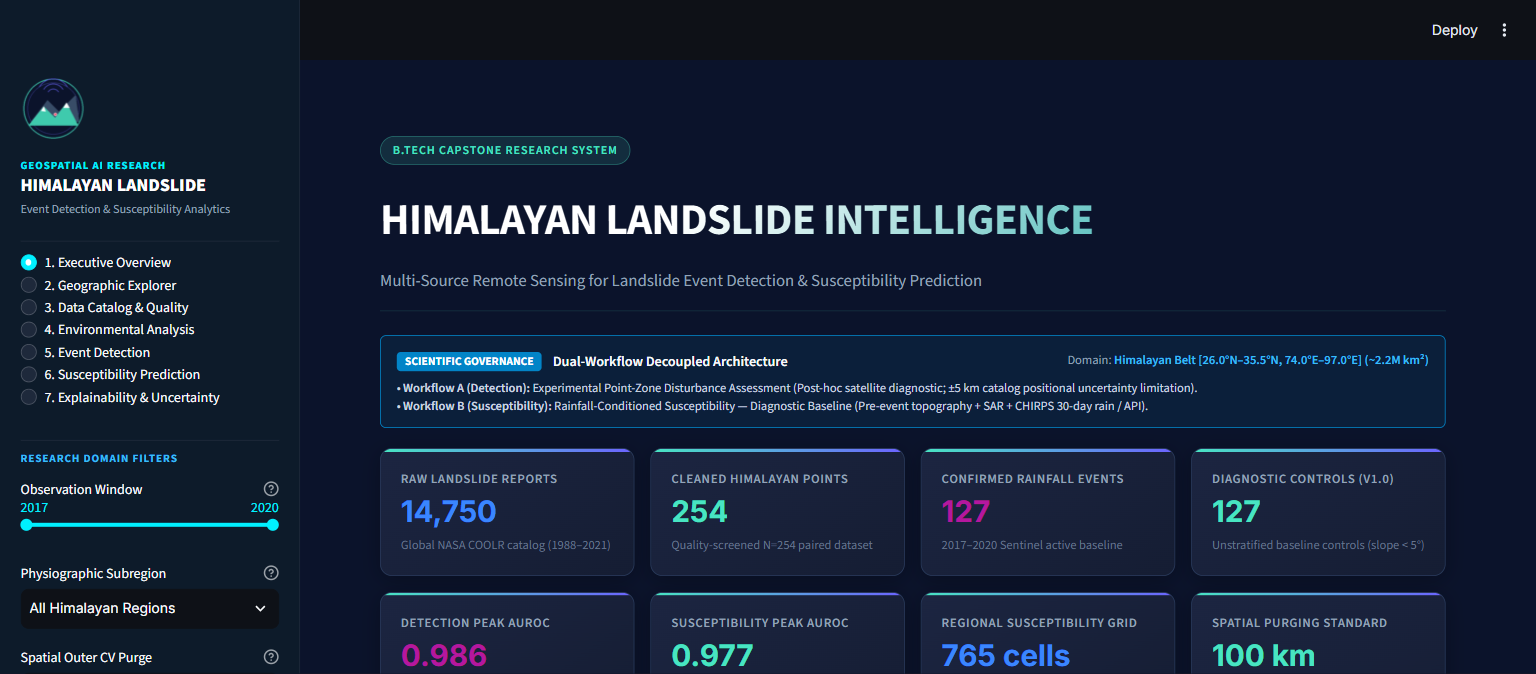
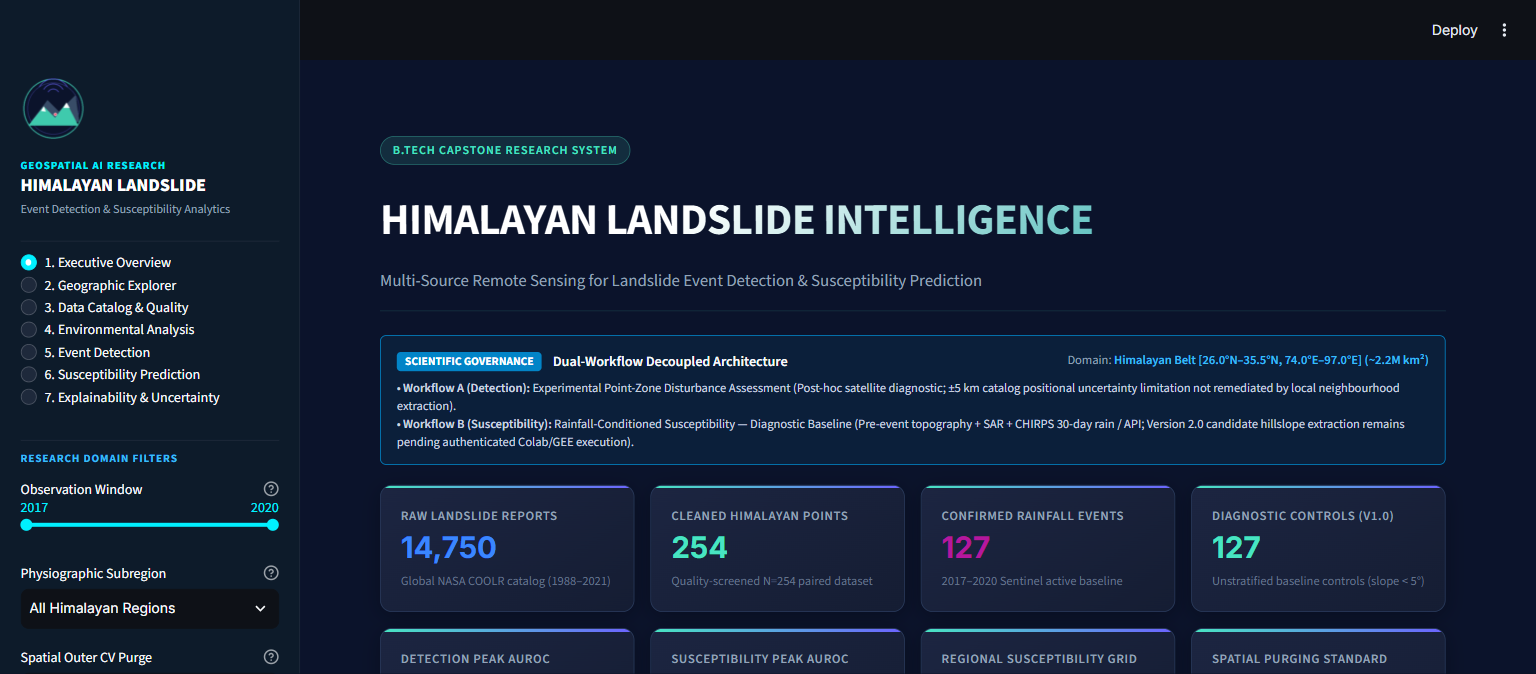
Fix Executive Overview metric chart schema, correct scientific wording, and verify dashboard

Changed region(s): [[0.25, 0.592, 0.9375, 0.997], [0.7812, 0.5608, 0.9062, 0.592]]

diff --git a/dashboard/components/charts.py b/dashboard/components/charts.py
@@ -149,33 +149,111 @@ def render_trigger_breakdown_chart(df: pd.DataFrame) -> go.Figure:
 
 
 def render_model_comparison_bar_chart(metrics_df: pd.DataFrame) -> go.Figure:
-    """Renders grouped bar chart comparing RF vs XGBoost across AUROC, PR-AUC, and F1."""
-    if metrics_df.empty:
+    """Renders grouped bar chart comparing RF vs XGBoost across AUROC, PR-AUC, and F1.
+    
+    Robustly handles:
+    1. Standard tidy metrics schema (with 'model', 'auroc', 'prauc', 'f1_score_at_0.5' / 'f1')
+       from detection_metrics.csv or susceptibility_metrics.csv.
+    2. Legacy wide metrics schema (with 'rf_auroc', 'xgb_auroc', etc.).
+    """
+    if metrics_df is None or metrics_df.empty:
         fig = go.Figure()
         return apply_custom_theme(fig, title="Model Metrics Unavailable")
 
     metrics_names = ["AUROC", "PR-AUC", "F1 Score"]
-    
-    # We display the REDUCED feature set as primary, and full as secondary
-    red_row = metrics_df[metrics_df["feature_set"].str.contains("REDUCED", case=False, na=False)]
-    if red_row.empty:
-        red_row = metrics_df.iloc[-1:]
+    rf_scores = [0.0, 0.0, 0.0]
+    xgb_scores = [0.0, 0.0, 0.0]
+    chart_title = "Spatial Out-of-Fold Model Benchmark (100km Purged)"
+    rf_label = "Random Forest"
+    xgb_label = "XGBoost"
 
-    rf_scores = [
-        float(red_row["rf_auroc"].values[0]),
-        float(red_row["rf_prauc"].values[0]),
-        float(red_row["rf_f1"].values[0]),
-    ]
-    xgb_scores = [
-        float(red_row["xgb_auroc"].values[0]),
-        float(red_row["xgb_prauc"].values[0]),
-        float(red_row["xgb_f1"].values[0]),
-    ]
+    cols = set(metrics_df.columns)
+
+    # 1. Legacy wide schema (rf_auroc, xgb_auroc)
+    if "rf_auroc" in cols and "xgb_auroc" in cols:
+        target_df = metrics_df
+        if "feature_set" in cols:
+            red = metrics_df[metrics_df["feature_set"].str.contains("REDUCED", case=False, na=False)]
+            if not red.empty:
+                target_df = red
+        target_row = target_df.iloc[-1]
+
+        rf_auc = target_row.get("rf_auroc", 0.0)
+        rf_pr = target_row.get("rf_prauc", target_row.get("rf_pr_auc", 0.0))
+        rf_f1 = target_row.get("rf_f1", target_row.get("rf_f1_score_at_0.5", target_row.get("rf_f1_score", 0.0)))
+
+        xgb_auc = target_row.get("xgb_auroc", 0.0)
+        xgb_pr = target_row.get("xgb_prauc", target_row.get("xgb_pr_auc", 0.0))
+        xgb_f1 = target_row.get("xgb_f1", target_row.get("xgb_f1_score_at_0.5", target_row.get("xgb_f1_score", 0.0)))
+
+        rf_scores = [float(rf_auc or 0.0), float(rf_pr or 0.0), float(rf_f1 or 0.0)]
+        xgb_scores = [float(xgb_auc or 0.0), float(xgb_pr or 0.0), float(xgb_f1 or 0.0)]
+        rf_label = "Random Forest"
+        xgb_label = "XGBoost"
+
+    # 2. Standard tidy schema (detection_metrics / susceptibility_metrics)
+    elif "model" in cols:
+        df_work = metrics_df.copy()
+
+        # Prioritize 100km spatial purge standard if present
+        if "purge_distance_km" in df_work.columns:
+            purged = df_work[df_work["purge_distance_km"] == 100.0]
+            if not purged.empty:
+                df_work = purged
+
+        # If configuration exists (susceptibility), default to Core model
+        if "configuration" in df_work.columns:
+            core = df_work[df_work["configuration"].str.contains("Core", case=False, na=False)]
+            if not core.empty:
+                df_work = core
+                chart_title = "Susceptibility Core Model Benchmark (100km Purged)"
+
+        rf_mask = df_work["model"].str.contains(r"Random Forest|RF", case=False, na=False)
+        xgb_mask = df_work["model"].str.contains(r"XGBoost|XGB", case=False, na=False)
+
+        rf_row = df_work[rf_mask]
+        xgb_row = df_work[xgb_mask]
+
+        auc_col = next((c for c in ["auroc", "auc", "roc_auc"] if c in df_work.columns), "auroc")
+        pr_col = next((c for c in ["prauc", "pr_auc", "average_precision"] if c in df_work.columns), auc_col)
+        f1_col = next((c for c in ["f1_score_at_0.5", "f1", "f1_score"] if c in df_work.columns), auc_col)
+
+        if not rf_row.empty:
+            r = rf_row.iloc[0]
+            rf_scores = [
+                float(r.get(auc_col, 0.0) or 0.0),
+                float(r.get(pr_col, 0.0) or 0.0),
+                float(r.get(f1_col, 0.0) or 0.0),
+            ]
+            rf_label = "Random Forest (100km Purged)" if "purge_distance_km" in df_work.columns else "Random Forest"
+
+        if not xgb_row.empty:
+            x = xgb_row.iloc[0]
+            xgb_scores = [
+                float(x.get(auc_col, 0.0) or 0.0),
+                float(x.get(pr_col, 0.0) or 0.0),
+                float(x.get(f1_col, 0.0) or 0.0),
+            ]
+            xgb_label = "XGBoost (100km Purged)" if "purge_distance_km" in df_work.columns else "XGBoost"
+
+    else:
+        # Generic fallback for 2-row comparison
+        auc_col = next((c for c in ["auroc", "auc", "roc_auc"] if c in cols), None)
+        pr_col = next((c for c in ["prauc", "pr_auc", "average_precision"] if c in cols), auc_col)
+        f1_col = next((c for c in ["f1_score_at_0.5", "f1", "f1_score"] if c in cols), auc_col)
+
+        if auc_col and len(metrics_df) >= 2:
+            r0 = metrics_df.iloc[0]
+            r1 = metrics_df.iloc[1]
+            rf_scores = [float(r0.get(auc_col, 0.0) or 0.0), float(r0.get(pr_col, 0.0) or 0.0), float(r0.get(f1_col, 0.0) or 0.0)]
+            xgb_scores = [float(r1.get(auc_col, 0.0) or 0.0), float(r1.get(pr_col, 0.0) or 0.0), float(r1.get(f1_col, 0.0) or 0.0)]
+            rf_label = str(r0.get("model", "Model 1"))
+            xgb_label = str(r1.get("model", "Model 2"))
 
     fig = go.Figure(
         data=[
             go.Bar(
-                name="Random Forest (Reduced)",
+                name=rf_label,
                 x=metrics_names,
                 y=rf_scores,
                 marker_color=THEME_COLORS["secondary"],
@@ -183,7 +261,7 @@ def render_model_comparison_bar_chart(metrics_df: pd.DataFrame) -> go.Figure:
                 textposition="auto",
             ),
             go.Bar(
-                name="XGBoost (Reduced)",
+                name=xgb_label,
                 x=metrics_names,
                 y=xgb_scores,
                 marker_color=THEME_COLORS["primary"],
@@ -195,7 +273,7 @@ def render_model_comparison_bar_chart(metrics_df: pd.DataFrame) -> go.Figure:
     fig.update_layout(barmode="group", yaxis_range=[0.75, 1.02])
     return apply_custom_theme(
         fig,
-        title="Spatial Out-of-Fold Model Performance (Reduced Set)",
+        title=chart_title,
         x_title="Evaluation Metric",
         y_title="Score",
         height=350,
@@ -499,7 +577,7 @@ def render_missingness_chart(missing_summary_df: pd.DataFrame) -> go.Figure:
     if plot_df.empty:
         plot_df = missing_summary_df.head(10).copy()
 
-    plot_df = plot_df.sort_values(by="missing_pct", ascending=True)
+    plot_df = plot_df.drop_duplicates(subset=["column"]).sort_values(by="missing_pct", ascending=True).reset_index(drop=True)
 
     colors = [
         THEME_COLORS["danger"] if pct > 30 else THEME_COLORS["warning"] if pct > 5 else THEME_COLORS["primary"]

diff --git a/dashboard/pages/data_quality.py b/dashboard/pages/data_quality.py
@@ -81,10 +81,13 @@ def render(filters: Dict[str, Any]) -> None:
     )
 
     if not missing_df.empty:
+        # Deduplicate display entries while preserving all distinct source variables
+        missing_df = missing_df.drop_duplicates(subset=["feature"]).reset_index(drop=True)
         c3, c4 = st.columns([1.2, 1])
         with c3:
             # Transform missing_df to format expected by missingness chart
             chart_df = missing_df.rename(columns={"feature": "column", "missingness_pct": "missing_pct", "null_count": "missing_count"})
+            chart_df = chart_df.drop_duplicates(subset=["column"]).reset_index(drop=True)
             st.plotly_chart(render_missingness_chart(chart_df), use_container_width=True)
         with c4:
             st.dataframe(
@@ -94,23 +97,30 @@ def render(filters: Dict[str, Any]) -> None:
                 height=450,
             )
 
+        st.caption(
+            "Note on Optical Missingness: BSI, NDVI, NDWI, and spectral_window_days all report 31.5% missingness (80/254 points) "
+            "because all multispectral indices and the adaptive window duration metadata are co-dependent on Sentinel-2 scene availability. "
+            "When cloud obscuration precludes valid surface reflectance within 60 days, all four variables are simultaneously null. "
+            "They are distinct physical variables, not duplicate entries."
+        )
+
     st.markdown("<div style='height: 25px;'></div>", unsafe_allow_html=True)
 
     # 3. Dataset Lineage: Version 1.0 vs Version 2.0
     st.markdown("### 3. Dataset Lineage: Version 1.0 (Baseline) vs Version 2.0 (Hillslope Protocol)")
     st.markdown(
         """
-        To eliminate the severe flat-terrain negative control bias documented in Version 1.0, an empirically constrained Version 2.0 sampling protocol has been designed:
+        To address the severe flat-terrain negative control bias documented in Version 1.0, an empirically constrained Version 2.0 sampling protocol has been designed:
         """
     )
 
     v1_v2_table = [
-        {"Parameter / Attribute": "Status", "Version 1.0 (Baseline)": "Historical Diagnostic Baseline (Flat-Terrain Controls; Not Validated Susceptibility)", "Version 2.0 (Hillslope Protocol)": "EXTRACTION_PENDING_COLAB_GEE (Extraction Pending)"},
+        {"Parameter / Attribute": "Status", "Version 1.0 (Baseline)": "Historical Diagnostic Baseline (Flat-Terrain Controls; Not Validated Susceptibility)", "Version 2.0 (Hillslope Protocol)": "EXTRACTION_PENDING_COLAB_GEE (Execution pending authenticated Colab/GEE run)"},
         {"Parameter / Attribute": "Sample Size", "Version 1.0 (Baseline)": "N=254 (127 pos, 127 neg)", "Version 2.0 (Hillslope Protocol)": "N=254 target (127 pos, 127 neg)"},
-        {"Parameter / Attribute": "Negative Control Slope", "Version 1.0 (Baseline)": "Mean 1.43° ± 4.34° (90% flat plains < 5°)", "Version 2.0 (Hillslope Protocol)": "Empirical envelope: 6.1° to 41.4° (unfailed hillslopes)"},
+        {"Parameter / Attribute": "Negative Control Slope", "Version 1.0 (Baseline)": "Mean 1.43° ± 4.34° (90% flat plains < 5°)", "Version 2.0 (Hillslope Protocol)": "Empirical envelope: 6.1° to 41.4° (candidate hillslope controls)"},
         {"Parameter / Attribute": "Elevation Range", "Version 1.0 (Baseline)": "14 m to 2,398 m", "Version 2.0 (Hillslope Protocol)": "266 m to 3,027 m (P10 to P95 of positive events)"},
         {"Parameter / Attribute": "Positive Exclusion Buffer", "Version 1.0 (Baseline)": "None", "Version 2.0 (Hillslope Protocol)": "> 2.0 km from all known scars"},
-        {"Parameter / Attribute": "Multi-Scale Neighborhoods", "Version 1.0 (Baseline)": "Single 10m pixel", "Version 2.0 (Hillslope Protocol)": "500m & 1000m buffer reductions (remediates +/-5km error)"},
+        {"Parameter / Attribute": "Multi-Scale Neighborhoods", "Version 1.0 (Baseline)": "Single 10m pixel", "Version 2.0 (Hillslope Protocol)": "500m & 1000m buffer reductions (point-zone disturbance; does not remediate ±5km error)"},
         {"Parameter / Attribute": "Earth Engine Script", "Version 1.0 (Baseline)": "Phase 3 notebook", "Version 2.0 (Hillslope Protocol)": "notebooks/Phase3b_V2_Hillslope_Extraction_Colab.ipynb"}
     ]
     st.dataframe(pd.DataFrame(v1_v2_table), use_container_width=True, hide_index=True)
@@ -120,7 +130,7 @@ def render(filters: Dict[str, Any]) -> None:
         st.markdown(
             f"""
             <div style="background: rgba(239, 68, 68, 0.08); border: 1px solid #DC2626; border-radius: 4px; padding: 10px 14px; margin-top: 10px;">
-                <strong style="color: #EF4444;">Statistical Proof of Terrain Confound:</strong> Two-sample Kolmogorov-Smirnov tests confirm extreme divergence between positive events and Version 1.0 controls:<br>
+                <strong style="color: #EF4444;">Statistical Evidence of Terrain Distribution Differences:</strong> Two-sample Kolmogorov-Smirnov tests confirm extreme divergence between positive events and Version 1.0 controls:<br>
                 • Slope KS Statistic: <strong>{div.get('slope_ks_statistic', 0.92):.3f}</strong> (p-value: {div.get('slope_ks_pvalue', 0):.2e})<br>
                 • TRI KS Statistic: <strong>{div.get('tri_ks_statistic', 0.91):.3f}</strong> (p-value: {div.get('tri_ks_pvalue', 0):.2e})<br>
                 <em>This mathematically confirms that high accuracy on Version 1.0 is driven by distinguishing mountains from flat valley floors.</em>

diff --git a/dashboard/pages/overview.py b/dashboard/pages/overview.py
@@ -46,8 +46,8 @@ def render(filters: Dict[str, Any]) -> None:
                 </div>
             </div>
             <div style="font-size: 0.78rem; color: #CBD5E1; margin-top: 6px; line-height: 1.45;">
-                • <strong>Workflow A (Detection):</strong> Experimental Point-Zone Disturbance Assessment (Post-hoc satellite diagnostic; ±5 km catalog positional uncertainty limitation).<br>
-                • <strong>Workflow B (Susceptibility):</strong> Rainfall-Conditioned Susceptibility — Diagnostic Baseline (Pre-event topography + SAR + CHIRPS 30-day rain / API).
+                • <strong>Workflow A (Detection):</strong> Experimental Point-Zone Disturbance Assessment (Post-hoc satellite diagnostic; ±5 km catalog positional uncertainty limitation not remediated by local neighbourhood extraction).<br>
+                • <strong>Workflow B (Susceptibility):</strong> Rainfall-Conditioned Susceptibility — Diagnostic Baseline (Pre-event topography + SAR + CHIRPS 30-day rain / API; Version 2.0 candidate hillslope extraction remains pending authenticated Colab/GEE execution).
             </div>
         </div>
         """,
@@ -161,7 +161,7 @@ def render(filters: Dict[str, Any]) -> None:
                 <div style="font-size: 0.78rem; color: #CBD5E1; line-height: 1.5;">
                     • <strong>Status:</strong> Experimental Point-Zone Disturbance Assessment.<br>
                     • <strong>Allowed Inputs:</strong> Post-event Sentinel-1 (VH/VV post), SAR deltas (dVH, dVV), event rainfall (rain_1d, 7d, 30d, API), topography.<br>
-                    • <strong>Key Limitation:</strong> ±5 km catalog positional uncertainty means point pixels capture zone disturbance, not verified scars.<br>
+                    • <strong>Key Limitation:</strong> ±5 km catalog positional uncertainty means point pixels capture zone disturbance, not verified scars (500m/1000m buffer extractions do not remediate catalog location error).<br>
                     • <strong>Prohibited:</strong> Temporal leakage bans future observations and spatial coordinate cheats.
                 </div>
             </div>
@@ -179,7 +179,7 @@ def render(filters: Dict[str, Any]) -> None:
                     <em>"Can pre-event terrain and environmental context identify hazard-prone hillslopes?"</em>
                 </div>
                 <div style="font-size: 0.78rem; color: #CBD5E1; line-height: 1.5;">
-                    • <strong>Status:</strong> Rainfall-Conditioned Susceptibility (Diagnostic Baseline).<br>
+                    • <strong>Status:</strong> Rainfall-Conditioned Susceptibility (Diagnostic Baseline with flat-terrain controls; Version 2.0 candidate controls pending authenticated Colab/GEE execution).<br>
                     • <strong>Allowed Inputs:</strong> Strictly pre-event SRTM topography, pre-event SAR baseline (VH/VV pre), 30-day antecedent rain, API (alpha=0.90).<br>
                     • <strong>Strictly Prohibited:</strong> VH/VV post, dVH, dVV, rain_1d, rain_7d, event labels, coordinates.<br>
                     • <strong>Configurations:</strong> Cloud-Independent Core (all-weather), Optical-Enhanced (31.5% monsoon nulls), Reduced (Terrain check).

diff --git a/tests/test_metrics.py b/tests/test_metrics.py
@@ -10,6 +10,9 @@ from dashboard.utils.metrics import (
     compute_confusion_matrix_at_threshold,
     compute_susceptibility_statistics,
 )
+from dashboard.components.charts import render_model_comparison_bar_chart
+from dashboard.utils.data_loader import load_detection_metrics, load_susceptibility_metrics
+import plotly.graph_objects as go
 
 
 def test_compute_roc_curve():
@@ -58,4 +61,39 @@ def test_compute_susceptibility_statistics():
     assert 0.0 < stats["mean_susceptibility"] < 1.0
     assert 0.0 <= stats["mean_tree_uncertainty"] <= 0.5
     assert 0.0 <= stats["mean_model_disagreement"] <= 1.0
+
+
+def test_render_model_comparison_bar_chart_schemas():
+    """Regression test ensuring render_model_comparison_bar_chart handles both
+    standard tidy metrics schema (detection_metrics / susceptibility_metrics)
+    and legacy wide schema without raising KeyError: 'rf_auroc'.
+    """
+    # 1. Primary failure case: det_metrics from detection_metrics.csv
+    det = load_detection_metrics()
+    assert not det.empty, "Detection metrics table should be populated"
+    fig_det = render_model_comparison_bar_chart(det)
+    assert isinstance(fig_det, go.Figure)
+    assert len(fig_det.data) == 2  # RF and XGBoost traces
+
+    # 2. Susceptibility metrics schema
+    susc = load_susceptibility_metrics()
+    assert not susc.empty, "Susceptibility metrics table should be populated"
+    fig_susc = render_model_comparison_bar_chart(susc)
+    assert isinstance(fig_susc, go.Figure)
+    assert len(fig_susc.data) == 2
+
+    # 3. Legacy wide schema with rf_auroc / xgb_auroc
+    legacy_df = pd.DataFrame([{
+        "feature_set": "REDUCED",
+        "rf_auroc": 0.955, "rf_prauc": 0.961, "rf_f1": 0.885,
+        "xgb_auroc": 0.958, "xgb_prauc": 0.963, "xgb_f1": 0.890
+    }])
+    fig_legacy = render_model_comparison_bar_chart(legacy_df)
+    assert isinstance(fig_legacy, go.Figure)
+    assert len(fig_legacy.data) == 2
+
+    # 4. Empty dataframe graceful handling
+    fig_empty = render_model_comparison_bar_chart(pd.DataFrame())
+    assert isinstance(fig_empty, go.Figure)
+
 

diff --git a/dashboard/pages/event_detection.py b/dashboard/pages/event_detection.py
@@ -44,7 +44,7 @@ def render(filters: Dict[str, Any]) -> None:
             </div>
             <div style="font-size: 0.78rem; color: #CBD5E1; line-height: 1.5;">
                 • <strong>Catalog Coordinate Uncertainty:</strong> 57.5% of NASA COOLR events (73/127) are documented with <strong>±5 km positional uncertainty</strong>. Only 10 points are "Known exactly".<br>
-                • <strong>Single Pixel Vulnerability:</strong> A single 10m Sentinel-1 SAR pixel sampled at nominal coordinates frequently falls outside the actual ground failure scar. Buffer reductions (500m/1000m) capture point-zone disturbance rather than scar delineations.<br>
+                • <strong>Single Pixel Vulnerability:</strong> A single 10m Sentinel-1 SAR pixel sampled at nominal coordinates frequently falls outside the actual ground failure scar. While 500m and 1,000m buffer reductions capture aggregated point-zone disturbance rather than scar delineations, they do not resolve or remediate the ±5 km catalog positional uncertainty.<br>
                 • <strong>Scientific Scope:</strong> This workflow is strictly classified as an <strong>Experimental Point-Zone Disturbance Assessment</strong>. It does <em>not</em> claim verified scar-level detection accuracy without high-precision polygon boundaries.
             </div>
         </div>

diff --git a/RESEARCH_PIPELINE_DESIGN.md b/RESEARCH_PIPELINE_DESIGN.md
@@ -64,7 +64,7 @@ $$\text{Filter: } \text{slope} < 5^\circ, \quad \text{distance to nearest positi
 - **Elevation Bimodality:** Negatives were drawn from flat areas within adaptive buffers, causing a bimodal split: flat Indo-Gangetic plains ($mean \approx 212\text{ m}$) and high Tibetan plateau flats ($mean \approx 4,800\text{ m}$), with an elevation standard deviation of $2,268\text{ m}$.
 
 ### 3.2. Revised Representative Hillslope Control Sampling Protocol (Version 2.0)
-To eliminate the terrain confound in susceptibility modeling, control points must represent **unfailed hillslopes** exposed to similar geophysical stresses:
+To eliminate the terrain confound in susceptibility modeling, control points must represent **candidate hillslope controls** (unrecorded failure status; genuine extraction pending authenticated Colab/GEE execution) exposed to similar geophysical stresses:
 
 1. **Topographic Domain Constraint:** Controls must reside within the active hillslope envelope:
    $$10^\circ \le \text{slope} \le 45^\circ$$
